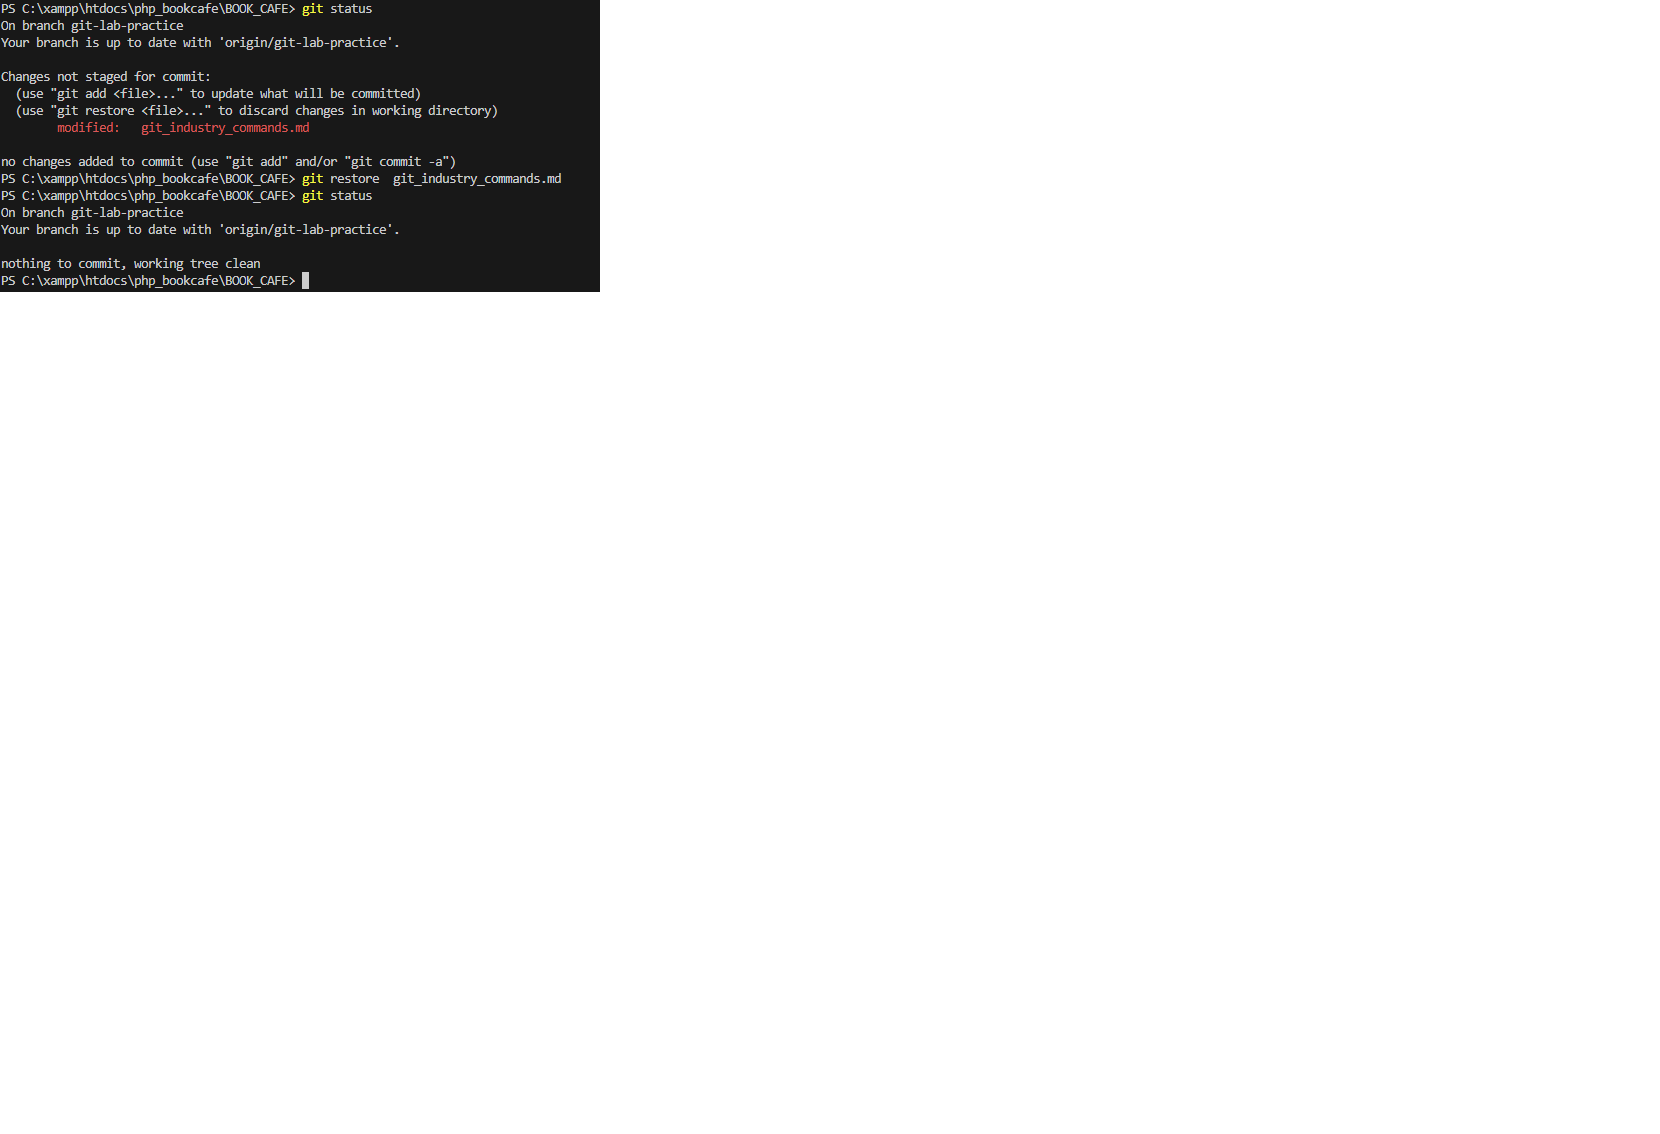
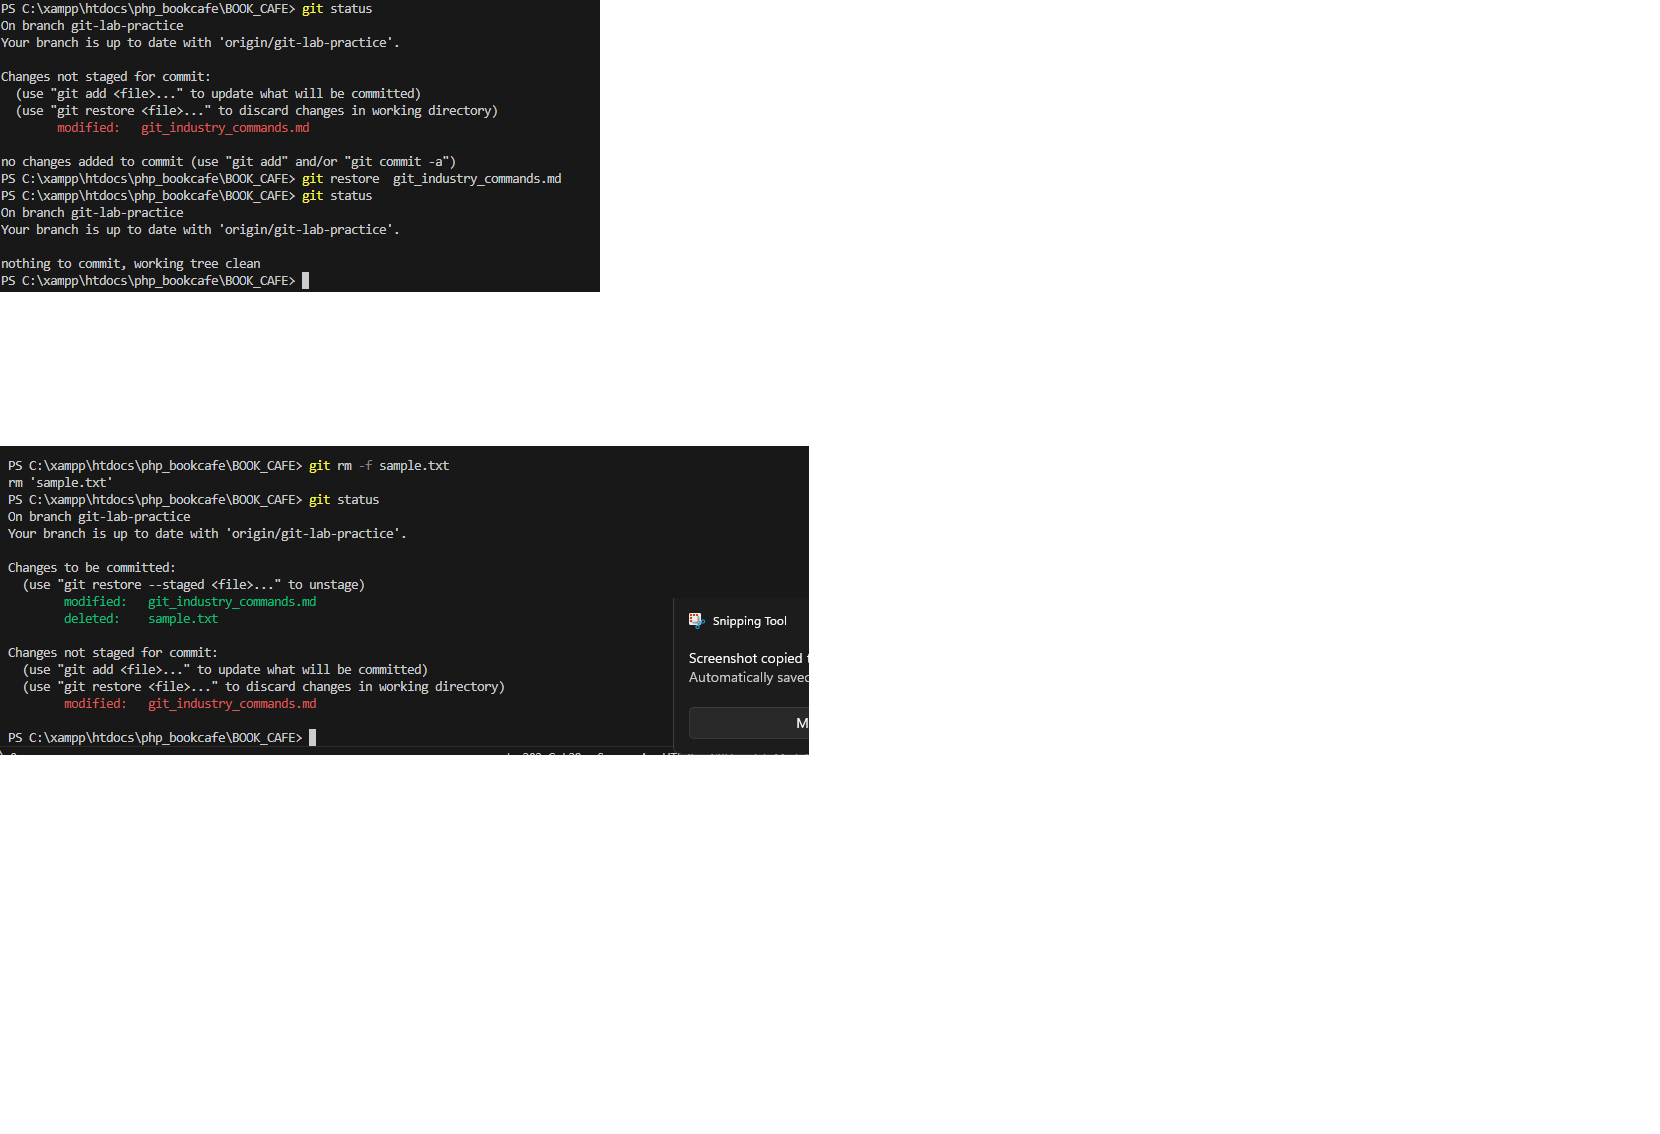
updated

Changed region(s): [[0.0, 0.3704, 0.4916, 0.679]]

diff --git a/git_industry_commands.md b/git_industry_commands.md
@@ -249,3 +249,34 @@ git add -p
 
 ### Screenshot Proof:
 ![Git Add Patch Output](git_add_patch.png)
+
+testing restore staged
+
+
+## Command: git restore --staged
+
+### Syntax:
+git restore --staged <file-name>
+
+### Purpose:
+Removes a file from the staging area but keeps the changes in the working directory.
+
+### Example:
+git restore --staged git_industry_commands.md
+
+### Screenshot Proof:
+![Git Restore Staged Output](git_restore_staged.png)
+
+## Command: git rm
+
+### Syntax:
+git rm <file-name>
+
+### Purpose:
+Removes a file from the working directory and also removes it from Git tracking.
+
+### Example:
+git rm sample.txt
+
+### Screenshot Proof:
+![Git RM Output](git_rm.png)
